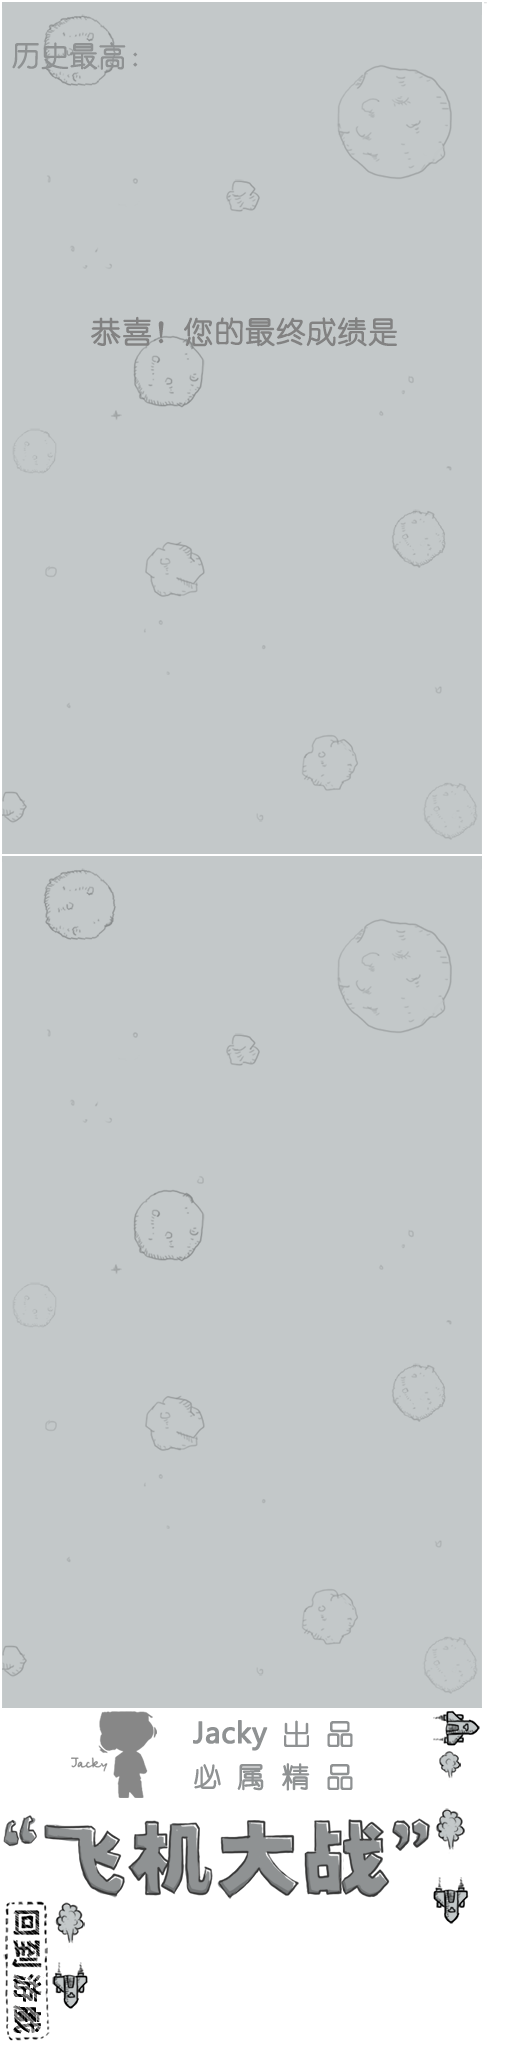
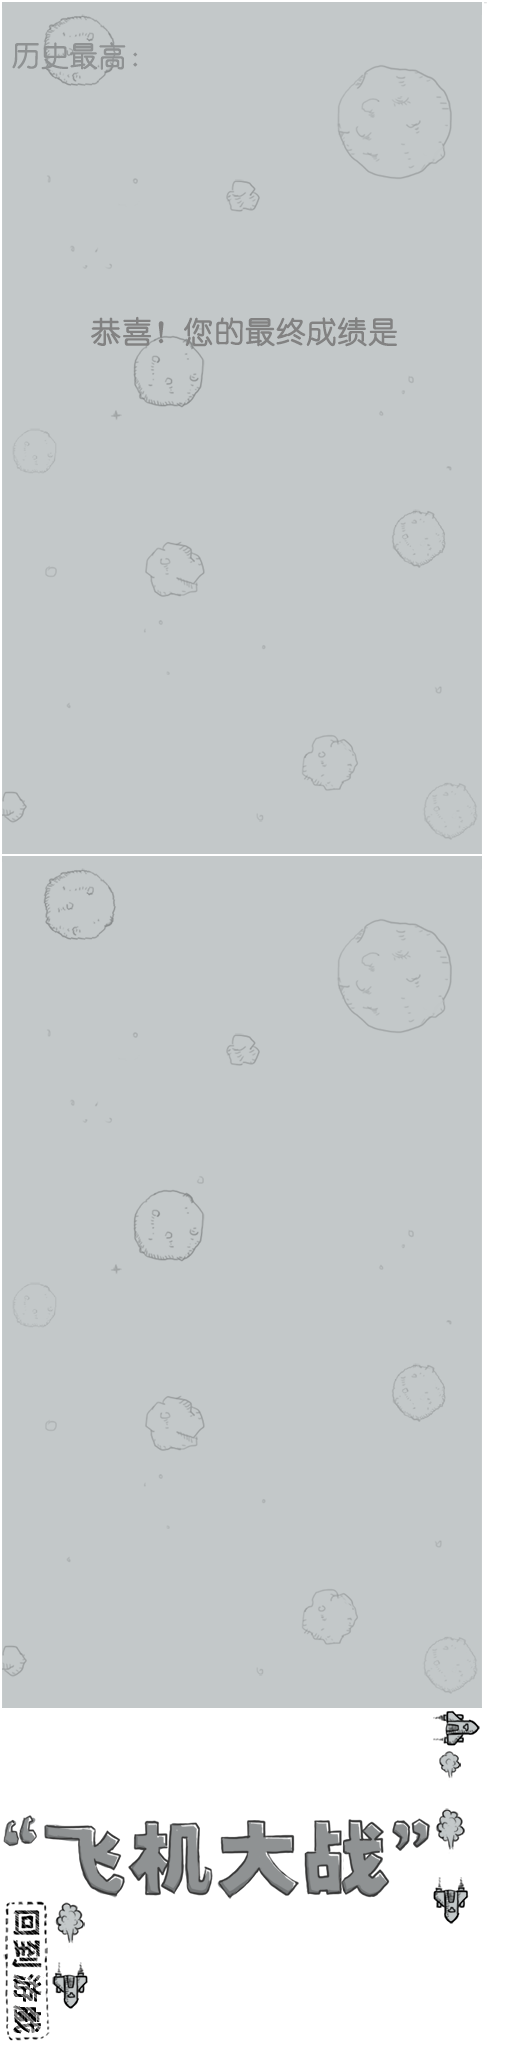
update menu and gameover layer

Changed region(s): [[0.375, 0.8438, 0.6875, 0.875], [0.1875, 0.8125, 0.3125, 0.875]]

diff --git a/Classes/startScene.h b/Classes/startScene.h
@@ -17,4 +17,20 @@ private:
 	void preload_music();
 };
 
+class gameoverScene : public cocos2d::Layer
+{
+public:
+	CREATE_FUNC(gameoverScene);
+	static cocos2d::Scene* createScene(int nscore);
+	virtual bool init(); 
+
+private:
+	gameoverScene():_game_score(0){};
+	~gameoverScene(){};
+
+	void show_game_score(int nscore);
+	void back_game_callback();
+	/*static */int _game_score;
+};
+
 #endif // __HELLOWORLD_SCENE_H__

diff --git a/Classes/menuLayer.h b/Classes/menuLayer.h
@@ -1,0 +1,20 @@
+#pragma once
+#include "cocos2d.h"
+
+class menuLayer : public cocos2d::Layer
+{
+public:
+	CREATE_FUNC(menuLayer);
+	virtual bool init();
+
+	void update_game_scores(int nsocre);
+private:
+	menuLayer();
+	~menuLayer();
+
+	cocos2d::MenuItemSprite *sp_menu_pause;
+	void menu_pause_callback();
+
+	int _game_scores;
+};
+

diff --git a/Classes/AppDelegate.cpp b/Classes/AppDelegate.cpp
@@ -32,7 +32,7 @@ bool AppDelegate::applicationDidFinishLaunching() {
         director->setOpenGLView(glview);
     }
 
-	glview->setDesignResolutionSize(360, 640, ResolutionPolicy::EXACT_FIT);
+	glview->setDesignResolutionSize(480, 800, ResolutionPolicy::EXACT_FIT);
 
     // turn on display FPS
     director->setDisplayStats(true);
